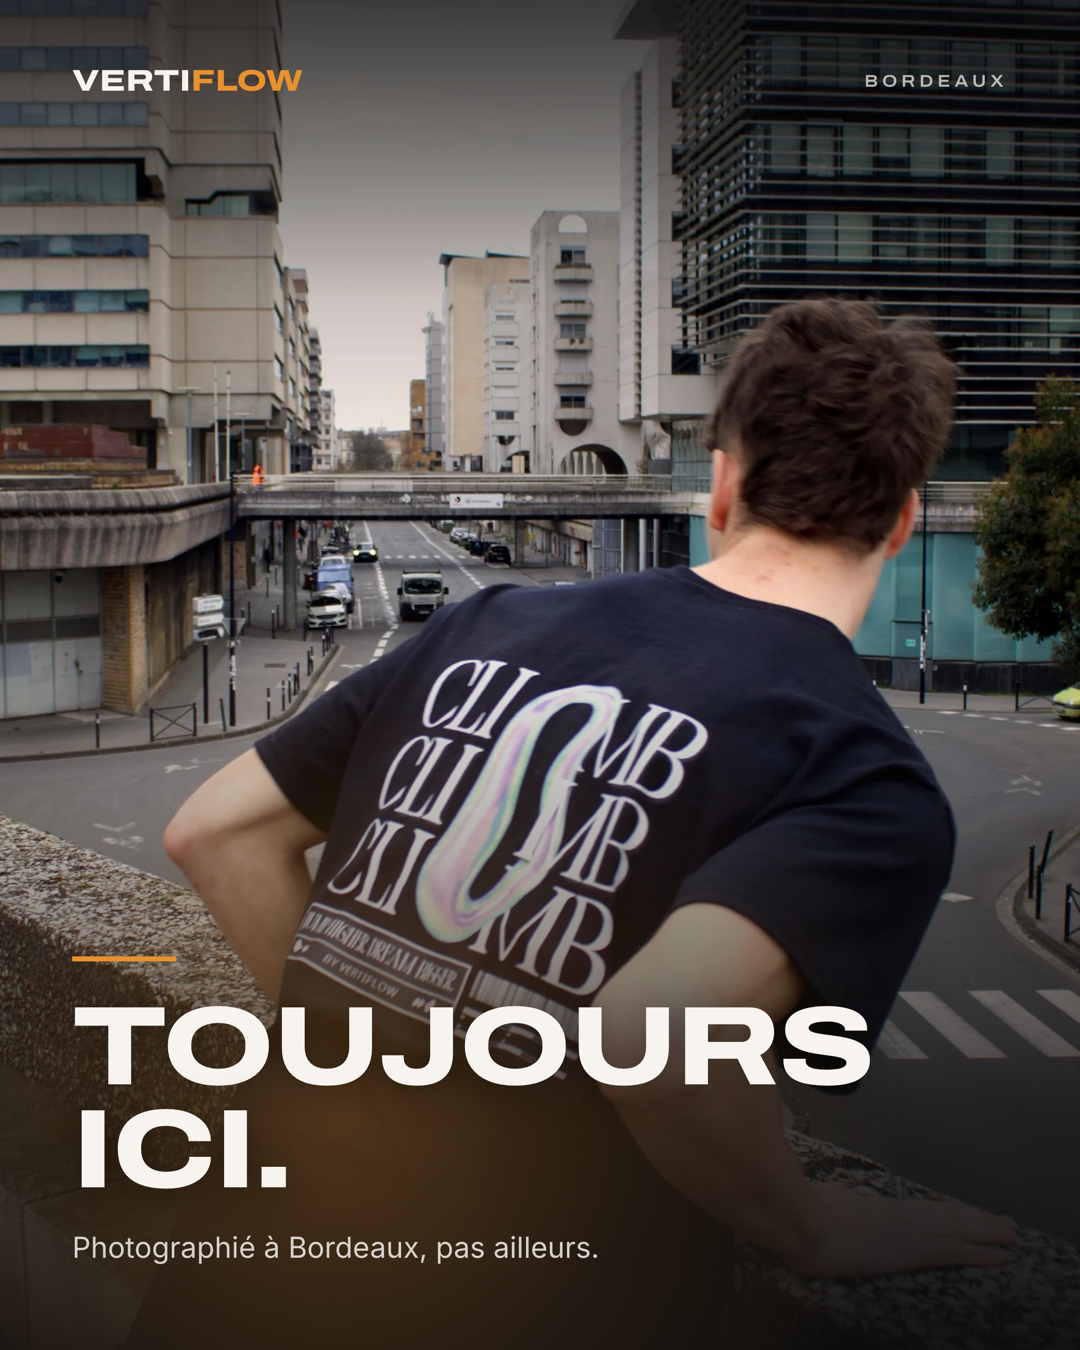
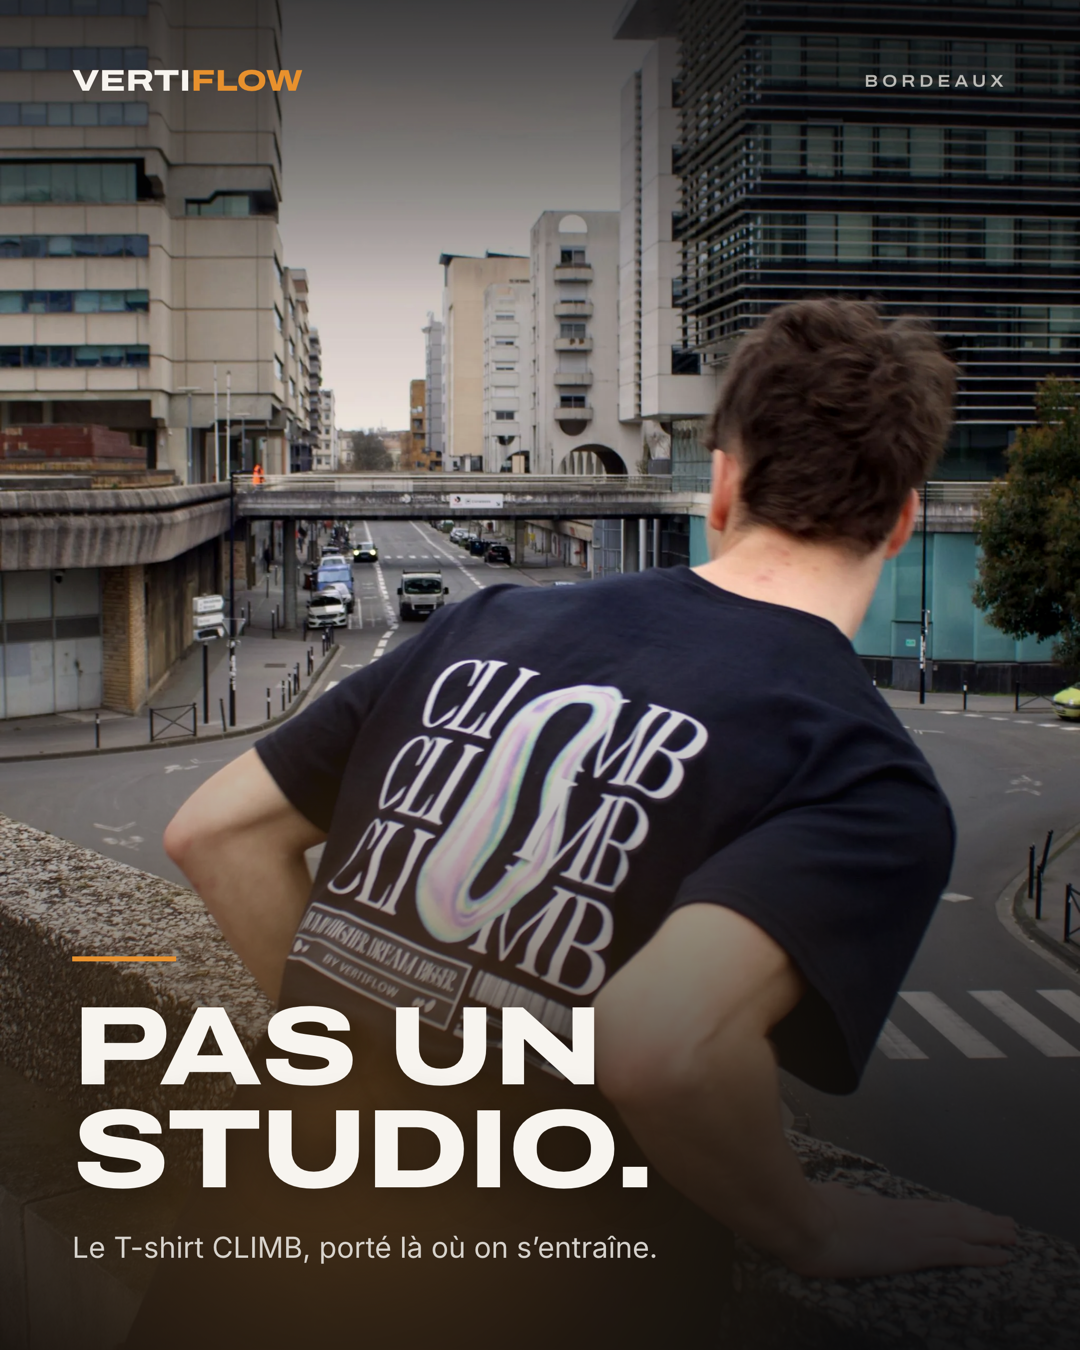
fix: rewrite carousel copy on the brand voice, cta to the whole site

Changed region(s): [[0.0611, 0.7467, 0.825, 0.9333]]

diff --git a/creative/instagram/2026-09-retour/caption.md b/creative/instagram/2026-09-retour/caption.md
@@ -5,34 +5,33 @@ Posted: _(not yet)_
 ## Ordre des slides
 
 1. `slide-1.png` — le flip, "ON A TOUT REFAIT."
-2. `slide-2.png` — le tee CLIMB, "TOUJOURS ICI."
+2. `slide-2.png` — le tee CLIMB, "PAS UN STUDIO."
 3. `slide-3.png` — l'ATR, "TU COMMENCES QUAND ?"
 
 ## Caption
 
 VertiFlow reprend.
 
-Nouveau site, nouvelles photos, toutes faites à Bordeaux. Les pièces sont en ligne.
+Nouveau site, nouvelles photos, toutes faites à Bordeaux. Rien en studio, rien en stock.
 
-Si tu regardes le parkour depuis un moment sans avoir jamais essayé, on a écrit le guide
-qu'on aurait voulu avoir en commençant. Il répond aux six questions que tout le monde se
-pose, y compris la dernière, celle que personne ne pose à voix haute : est-ce que je vais
-être le plus nul du groupe ?
+La boutique est en ligne, et le guide pour débuter aussi. Il répond aux six questions que
+tout le monde se pose avant de commencer, y compris la dernière, celle que personne ne
+pose à voix haute : est-ce que je vais être le plus nul du groupe ?
 
 Réponse courte : oui, pendant deux séances. Après, non.
 
-Lien en bio.
+Tout est sur vertiflow.fr, lien en bio.
 
 #parkour #parkourfrance #bordeaux #gironde #bassindarcachon #parkourlife #streetmovement
 
 ## Ce que ce post ne prétend pas
 
 Pas de date de lancement, pas de promo, pas de mention du club. La marque est le sujet,
-pas le fondateur. Le seul lien sortant est `/commencer`, qui répond 200 aujourd'hui.
+pas le fondateur. Le seul lien sortant est `vertiflow.fr`, qui porte la boutique et `/commencer`.
 
 ## Avant de poster
 
-Bio et story highlights à jour, lien en bio sur `vertiflow.fr/commencer`.
+Bio et story highlights à jour, lien en bio sur `vertiflow.fr`.
 
 ## Regénérer
 
